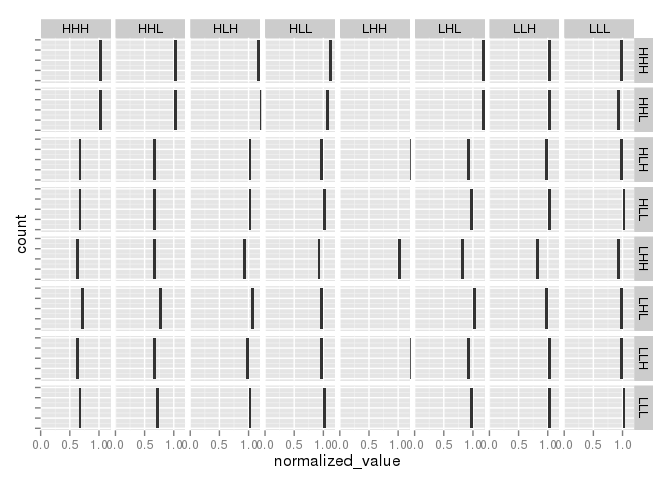
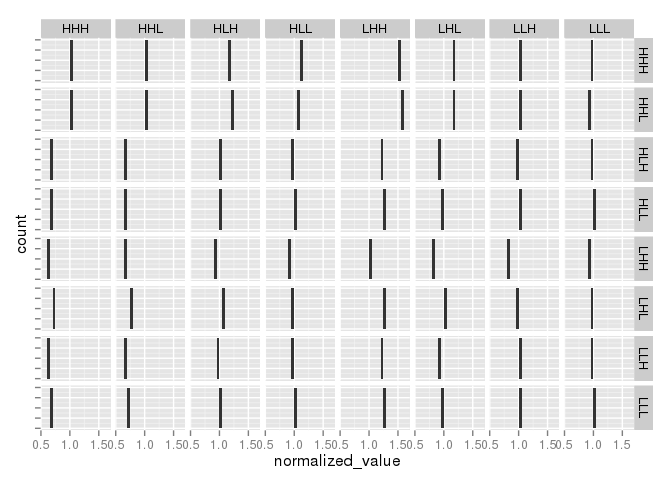
avoid off-grid plots

diff --git a/inst/scripts/table_sethi_settings.md b/inst/scripts/table_sethi_settings.md
@@ -170,8 +170,7 @@ After normalizing by the optimum that could be achieved for the given scenario, 
 ggplot(tbl) + geom_histogram(aes(normalized_value), binwidth=.05) + 
   facet_grid(belief ~ true)  + 
   theme(axis.text.y=element_blank()) + 
-  scale_x_continuous(breaks=scales::pretty_breaks(n=3)) + 
-  coord_cartesian(xlim=c(0, 1.2))
+  scale_x_continuous(breaks=scales::pretty_breaks(n=3))
 ```
 
 ![](table_sethi_settings_files/figure-markdown_github/unnamed-chunk-11-1.png)
